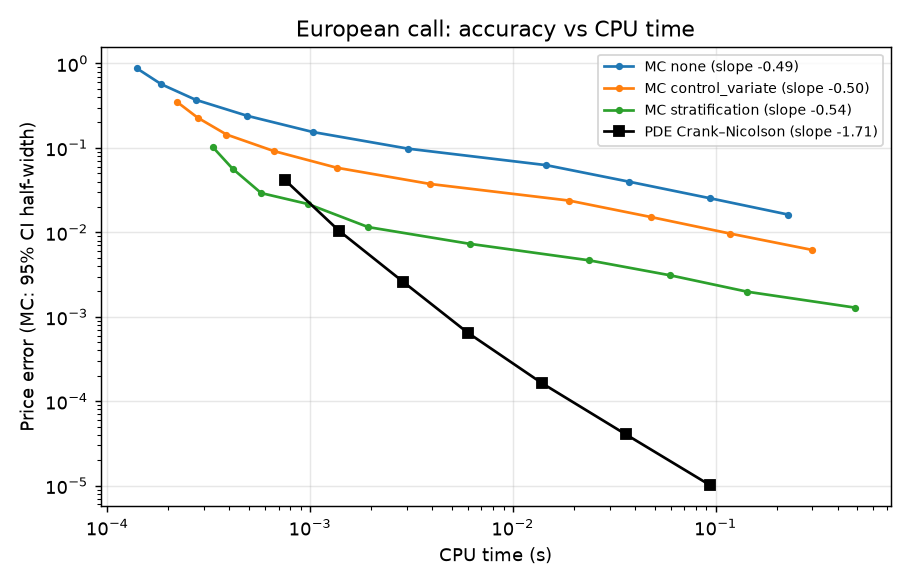
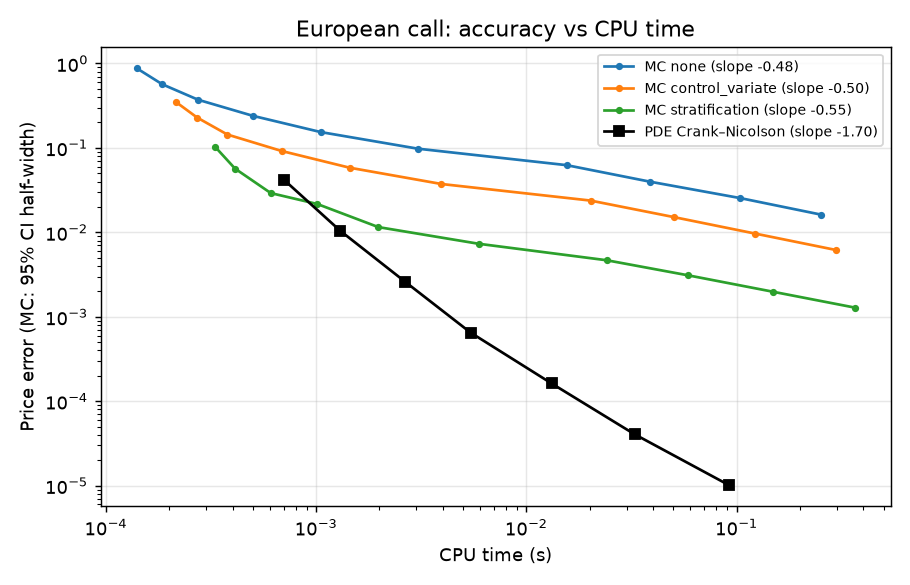
Make the importance sampling curve visible on top of the crude one

diff --git a/scripts/make_figures.py b/scripts/make_figures.py
@@ -39,7 +39,10 @@ def variance_reduction():
     base = None
     for technique in VR_TECHNIQUES:
         df = mc_convergence(EURO_MODEL, EURO_CALL, MCConfig(variance_reduction=technique), n_values, repeats=3)
-        ax.loglog(df["n_paths"], df["ci_half_width"], marker="o", ms=3,
+        # At the money the IS drift is 0, so its curve coincides with the crude one: draw it dashed on top.
+        style = {"ls": "--", "marker": "x", "ms": 6, "zorder": 3} if technique == "importance_sampling" else \
+            {"marker": "o", "ms": 3}
+        ax.loglog(df["n_paths"], df["ci_half_width"], **style,
                   label=f"{technique} (slope {fit_slope(df['n_paths'], df['ci_half_width']):.2f})")
         last = df.iloc[-1]
         efficiency = last["stderr"] ** 2 * last["elapsed"]

diff --git a/docs/figures/results.md b/docs/figures/results.md
@@ -1,15 +1,15 @@
 | Technique | Std error at N = 10⁶ | Variance reduction | Time (ms) | Efficiency gain |
 |---|---|---|---|---|
-| none | 0.01473 | ×1.0 | 72 | ×1.0 |
-| antithetic | 0.01042 | ×2.0 | 71 | ×2.0 |
-| control_variate | 0.00562 | ×6.9 | 102 | ×4.9 |
-| importance_sampling | 0.01473 | ×1.0 | 82 | ×0.9 |
-| stratification | 0.00117 | ×159.1 | 113 | ×101.5 |
-| conditioning | 0.00969 | ×2.3 | 175 | ×0.9 |
+| none | 0.01473 | ×1.0 | 99 | ×1.0 |
+| antithetic | 0.01042 | ×2.0 | 70 | ×2.8 |
+| control_variate | 0.00562 | ×6.9 | 100 | ×6.9 |
+| importance_sampling | 0.01473 | ×1.0 | 83 | ×1.2 |
+| stratification | 0.00117 | ×159.1 | 115 | ×137.7 |
+| conditioning | 0.00969 | ×2.3 | 189 | ×1.2 |
 
 European call closed form: 10.450584
-Brennan–Schwartz: errors 1.3e-03, 4.2e-04, 1.4e-04, 5.0e-05, 1.7e-05; times (ms) 2, 4, 11, 30, 94
-PSOR: errors 1.3e-03, 4.2e-04, 1.4e-04, 5.0e-05, 1.9e-05; times (ms) 4, 14, 63, 391, 2651
+Brennan–Schwartz: errors 1.3e-03, 4.2e-04, 1.4e-04, 5.0e-05, 1.7e-05; times (ms) 2, 4, 11, 29, 94
+PSOR: errors 1.3e-03, 4.2e-04, 1.4e-04, 5.0e-05, 1.9e-05; times (ms) 4, 13, 63, 391, 2672
 
 American put reference (S0=36): 4.486671
 LSM 2 dates: 4.2057 ± 0.0165 (bias -0.2810)

diff --git a/README.md b/README.md
@@ -22,7 +22,7 @@ Convergence studies measure the empirical order of each method and its accuracy 
 
 ## Figures
 
-**Monte Carlo variance reduction.** All techniques converge in N^−1/2. Stratification of the Gaussian driver dominates in this one-dimensional problem. Importance sampling does nothing at the money, since the optimal drift is 0, so its line overlaps the crude estimator.
+**Monte Carlo variance reduction.** All techniques converge in N^−1/2. Stratification of the Gaussian driver dominates in this one-dimensional problem. Importance sampling does nothing at the money, since the optimal drift is 0: its line (dashed) lies exactly on top of the crude estimator.
 
 ![Variance reduction](docs/figures/mc_variance_reduction.png)
 
